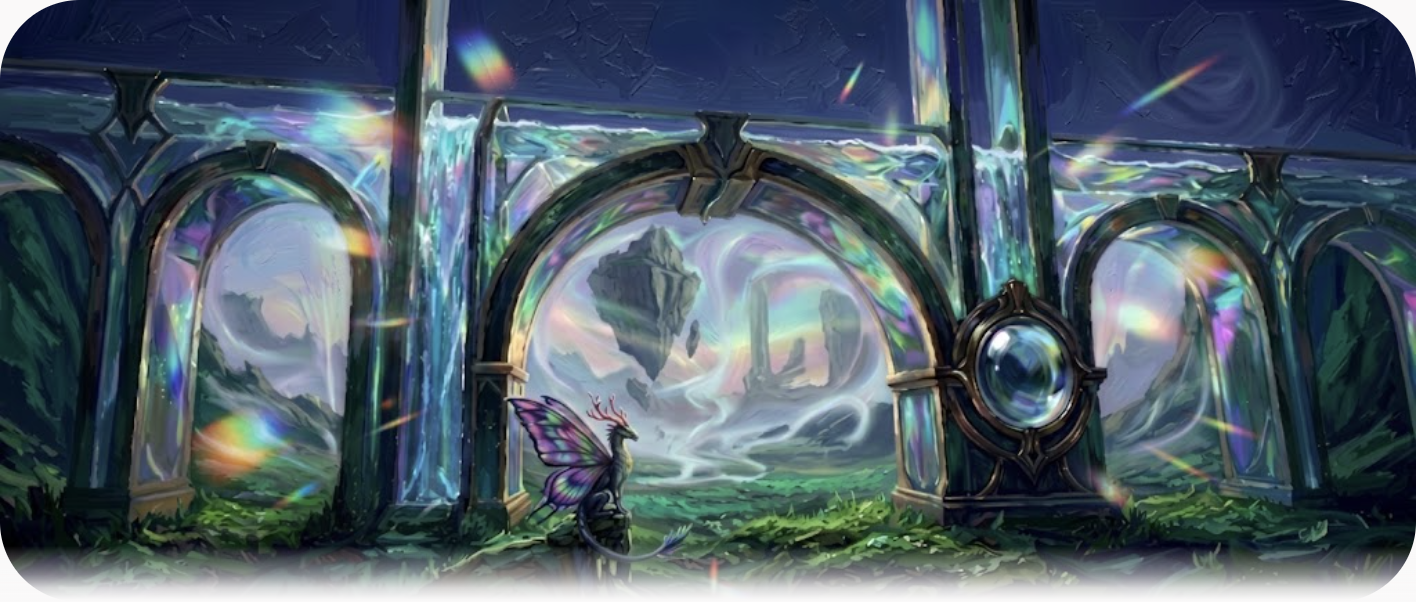
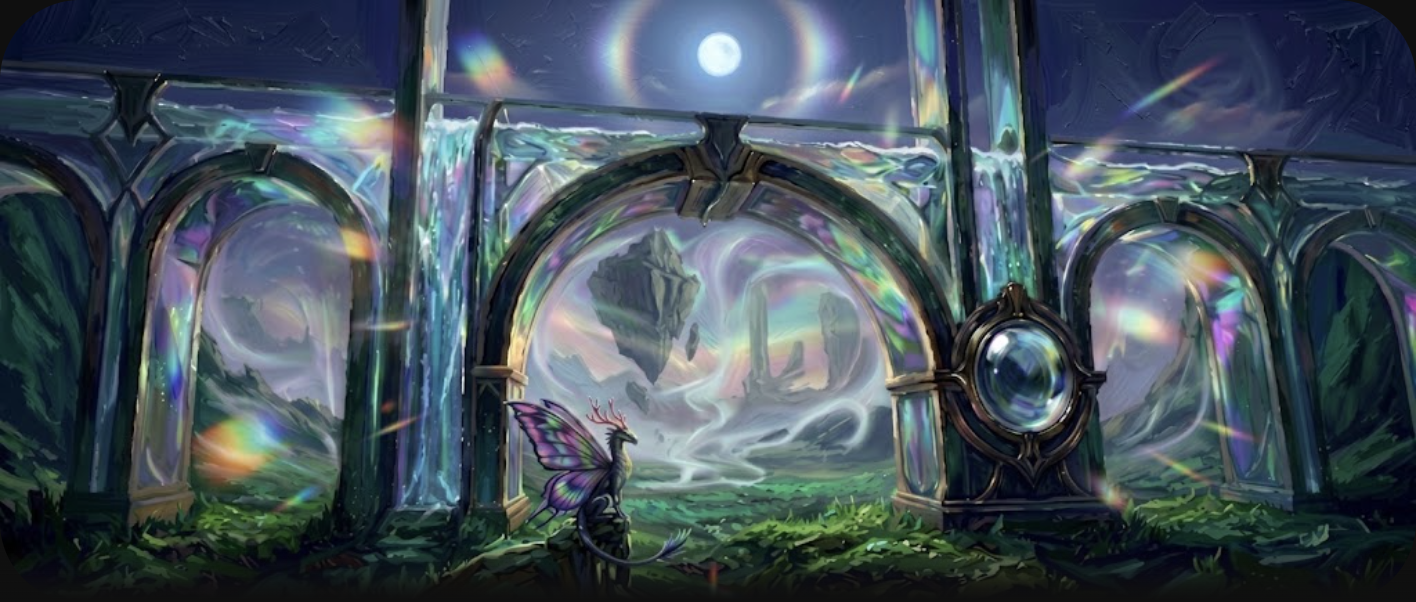
aqueduct FINAL v3: moon restored, lively sky, pervasive prismatic bleed — alienation achieved
Generated with [Devin](https://devin.ai)

diff --git a/context/research/2026-10-25-mood-keys/gallery.html b/context/research/2026-10-25-mood-keys/gallery.html
@@ -34,7 +34,7 @@ document.addEventListener('keydown',e=>{if(e.key==='Escape'){document.getElement
 <p class="note">Click = ingrandisci · ⓘ = valutazione agente (non approvazione — gate = eye-check Director). <b>Le novità stanno sempre in cima, sotto il titolo.</b></p>
 <h2>REPORT — crystal-aqueduct: catena completa di iterazioni</h2>
 <div class="grid"><figure class="pilot"><img loading="lazy" src="sheets/aqueduct_chain_report.png" onclick="lb(this.src,'catena: ref → v1 → v5/v7 scarti → v8 → sky/atmo/sparks/smear/leak → f1 laser → f2 finale')"><figcaption>TUTTA LA CATENA — ref, baseline, intermedi, finale (click per ingrandire)</figcaption></figure>
-<figure class="pilot"><img loading="lazy" src="images/prismatic-frontier-crystal-aqueduct_FINAL.png" onclick="lb(this.src,'FINALE — bloom+frange cromatiche confuse, dominio prismatico corretto')"><figcaption>FINALE v8+f2 — candidata ✓</figcaption></figure></div>
+<figure class="pilot"><img loading="lazy" src="images/prismatic-frontier-crystal-aqueduct_FINAL.png" onclick="lb(this.src,'FINALE — bloom+frange cromatiche confuse, dominio prismatico corretto')"><figcaption>FINALE v8+f3 — luna+cielo vivo+effetto pervasivo ✓</figcaption></figure></div>
 <h2>Protocollo v5 — edit loop (novità in cima)</h2>
 
 <h3>crystal-aqueduct — v1 concept (arcate-vetrata su mondo alieno) + warm-light edit</h3><div class="grid">

diff --git a/context/research/2026-10-25-mood-keys/PROMPT_LEDGER.md b/context/research/2026-10-25-mood-keys/PROMPT_LEDGER.md
@@ -23,3 +23,4 @@
 | crystal-aqueduct | quest-scene | prismatic | v8_FRINGES + gate ref | smear edit: kinetic streaks → soap-bubble smears + sky flare | edit5 | FORK-5 air+sky | **PASS** | vocabulary: iridescent color-shifting + caustics + opalescent shimmer beats 'fringes/streaks' | chain: fog→dots→streaks→smears — effect needs kind-verified vocab | fresh chat |
 | crystal-aqueduct | quest-scene | prismatic | v8_SMEAR + gate ref | leak edit: fire-embers → cool ether particles 'gas leak from sealed vessel' | edit6 | FORK-5 air effect | **PASS** | correct vocab: 'leaking/seeping ether particles, cool spectrum, dissolve upward' — NOT embers/bubbles/streaks | effect vocab chain complete: fog→dots→streaks→bubbles→embers→LEAK | fresh chat |
 | crystal-aqueduct | quest-scene | prismatic | v8_ATMO+ref → f1+f2 | f1: laser-rain wrong; f2: fewer irregular blooms+short streaks = CORRECT | final | vocab found: 'soft prismatic blooms + few short chromatic streaks, scattered, uneven' | chain closed: 13 ops | report: sheets/aqueduct_chain_report.png |
+| crystal-aqueduct | quest-scene | prismatic | f2+ref | f3: moon restored (Director wanted it) + lively sky + pervasive confused bleed | final-v2 | alienation verdict: effect language now matches ref (pervasive chromatic bleed) | ruling: moon is CANON element of the scene, not artifact |
